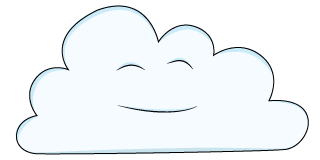
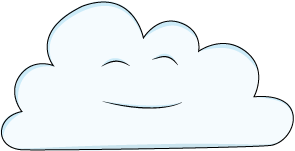
Resized pictures and implemented proper drawing and rotation of cloud arms

diff --git a/molnprojektet/molnprojektet/player.cs b/molnprojektet/molnprojektet/player.cs
@@ -17,6 +17,15 @@ namespace molnprojektet
         private Sprite rightUlnaSprite;
         private Sprite rightHandSprite;
 
+        private int rightHumerusOffsetX;
+        private int rightHumerusOffsetY;
+        private int rightUlnaOffset;
+        private int rightHandOffset;
+        private int leftHumerusOffsetX;
+        private int leftHumerusOffsetY;
+        private int leftUlnaOffset;
+        private int leftHandOffset;
+
         private List<Sprite> spriteList;
 
         private Vector2 position;
@@ -40,89 +49,167 @@ namespace molnprojektet
             }
         }
 
-        public readonly object locker;
+        public readonly object locker = new object();
 
-        public List<Sprite> getSprites()
+        public List<Sprite> GetSprites()
         {
             return spriteList;
         }
 
         public Player()
         {
-            cloudSprite.Texture = Game1.contentManager.Load<Texture2D>("Cloud.png");
-            leftHumerusSprite.Texture = Game1.contentManager.Load<Texture2D>("Humerus_left.png");
-            leftUlnaSprite.Texture = Game1.contentManager.Load<Texture2D>("Ulna_left.png");
-            leftHandSprite.Texture = Game1.contentManager.Load<Texture2D>("Hand_left.png");
-            rightHumerusSprite.Texture = Game1.contentManager.Load<Texture2D>("Humerus_right.png");
-            rightUlnaSprite.Texture = Game1.contentManager.Load<Texture2D>("Ulna_right.png");
-            rightHandSprite.Texture = Game1.contentManager.Load<Texture2D>("Hand_right.png");
+            InitSprites();
+
+            Position = new Vector2(400, 300);
+            InitArms();
+
+            SetLeftArmRotation((float)Math.PI / 2, (float)Math.PI / 2);
+            SetRightArmRotation(-(float)Math.PI / 2, -(float)Math.PI / 2);
+        }
+
+        private void InitSprites()
+        {
+            cloudSprite = new Sprite();
+            leftHumerusSprite = new Sprite();
+            leftUlnaSprite = new Sprite();
+            leftHandSprite = new Sprite();
+            rightHumerusSprite = new Sprite();
+            rightUlnaSprite = new Sprite();
+            rightHandSprite = new Sprite();
+
+            cloudSprite.Initialize();
+            leftHumerusSprite.Initialize();
+            leftUlnaSprite.Initialize();
+            leftHandSprite.Initialize();
+            rightHumerusSprite.Initialize();
+            rightUlnaSprite.Initialize();
+            rightHandSprite.Initialize();
+
+            cloudSprite.Texture = Game1.contentManager.Load<Texture2D>(@"images/Cloud");
+            leftHumerusSprite.Texture = Game1.contentManager.Load<Texture2D>(@"images/Humerus_left");
+            leftUlnaSprite.Texture = Game1.contentManager.Load<Texture2D>(@"images/Ulna_left");
+            leftHandSprite.Texture = Game1.contentManager.Load<Texture2D>(@"images/Hand_left");
+            rightHumerusSprite.Texture = Game1.contentManager.Load<Texture2D>(@"images/Humerus_right");
+            rightUlnaSprite.Texture = Game1.contentManager.Load<Texture2D>(@"images/Ulna_right");
+            rightHandSprite.Texture = Game1.contentManager.Load<Texture2D>(@"images/Hand_right");
 
             // Origin to right mid
             leftHumerusSprite.Origin = new Vector2(leftHumerusSprite.Texture.Width, leftHumerusSprite.Texture.Height / 2);
             leftUlnaSprite.Origin = new Vector2(leftUlnaSprite.Texture.Width, leftUlnaSprite.Texture.Height / 2);
-            leftHandSprite.Origin = new Vector2(leftHandSprite.Texture.Width, leftHandSprite.Texture.Height / 2);
+            leftHandSprite.Origin = new Vector2(leftHandSprite.Texture.Width, leftHandSprite.Texture.Height * 5 / 7);
 
             //Origin to left mid
             rightHumerusSprite.Origin = new Vector2(0, rightHumerusSprite.Texture.Height / 2);
             rightUlnaSprite.Origin = new Vector2(0, rightUlnaSprite.Texture.Height / 2);
-            rightHandSprite.Origin = new Vector2(0, rightHandSprite.Texture.Height / 2);
+            rightHandSprite.Origin = new Vector2(0, rightHandSprite.Texture.Height * 5 / 7);
 
             spriteList = new List<Sprite>();
             spriteList.Add(cloudSprite);
-            spriteList.Add(leftHumerusSprite);
+            spriteList.Add(rightUlnaSprite);
             spriteList.Add(leftUlnaSprite);
+            spriteList.Add(leftHumerusSprite);
             spriteList.Add(leftHandSprite);
             spriteList.Add(rightHumerusSprite);
-            spriteList.Add(rightUlnaSprite);
             spriteList.Add(rightHandSprite);
+        }
+
+        private void InitArms()
+        {
+
+            leftHumerusOffsetX = (int)(cloudSprite.Texture.Width * 0.1);
+            leftHumerusOffsetY = (int)(cloudSprite.Texture.Height * 0.6);
+            leftUlnaOffset = -(int)(leftHumerusSprite.Texture.Width * 0.95);
+            leftHandOffset = -(int)(leftUlnaSprite.Texture.Width * 0.97);
+
+            rightHumerusOffsetX = (int)(cloudSprite.Texture.Width * 0.8);
+            rightHumerusOffsetY = (int)(cloudSprite.Texture.Height * 0.6);
+            rightUlnaOffset = (int)(rightHumerusSprite.Texture.Width * 0.95);
+            rightHandOffset = (int)(rightUlnaSprite.Texture.Width * 0.97);
+
+            //Set left
+            Vector2 newHumerusPosition = new Vector2();
+            newHumerusPosition.X = position.X + leftHumerusOffsetX;
+            newHumerusPosition.Y = position.Y + leftHumerusOffsetY;
+
+            Vector2 newUlnaPosition = new Vector2();
+            newUlnaPosition.X = newHumerusPosition.X + leftUlnaOffset;
+            newUlnaPosition.Y = newHumerusPosition.Y;
+
+            Vector2 newHandPosition = new Vector2();
+            newHandPosition.X = newUlnaPosition.X + leftHandOffset;
+            newHandPosition.Y = newUlnaPosition.Y;
+
+            leftHumerusSprite.Position = newHumerusPosition;
+            leftUlnaSprite.Position = newUlnaPosition;
+            leftHandSprite.Position = newHandPosition;
+
+            //Set right
+            newHumerusPosition = new Vector2();
+            newHumerusPosition.X = position.X + rightHumerusOffsetX;
+            newHumerusPosition.Y = position.Y + rightHumerusOffsetY;
+
+            newUlnaPosition = new Vector2();
+            newUlnaPosition.X = newHumerusPosition.X + rightUlnaOffset;
+            newUlnaPosition.Y = newHumerusPosition.Y;
+
+            newHandPosition = new Vector2();
+            newHandPosition.X = newUlnaPosition.X + rightHandOffset;
+            newHandPosition.Y = newUlnaPosition.Y;
+
+            rightHumerusSprite.Position = newHumerusPosition;
+            rightUlnaSprite.Position = newUlnaPosition;
+            rightHandSprite.Position = newHandPosition;
 
         }
 
-        public void setLeftArmRotation(float humerusRotation, float ulnaRotation)
+        
+
+
+        public void SetLeftArmRotation(float humerusRotation, float ulnaRotation)
         {
             lock (locker)
             {
                 leftHumerusSprite.Rotation = humerusRotation;
 
                 Vector2 newUlnaPosition = new Vector2();
-                newUlnaPosition.X = leftHumerusSprite.Position.X - (int)(Math.Cos(humerusRotation) * leftHumerusSprite.Texture.Width);
-                newUlnaPosition.Y = leftHumerusSprite.Position.Y - (int)(Math.Sin(humerusRotation) * leftHumerusSprite.Texture.Width);
+                newUlnaPosition.X = leftHumerusSprite.Position.X + (int)(Math.Cos(humerusRotation) * leftUlnaOffset);
+                newUlnaPosition.Y = leftHumerusSprite.Position.Y + (int)(Math.Sin(humerusRotation) * leftUlnaOffset);
 
                 leftUlnaSprite.Position = newUlnaPosition;
                 leftUlnaSprite.Rotation = ulnaRotation;
 
                 Vector2 newHandPosition = new Vector2();
-                newHandPosition.X = newUlnaPosition.X - (int)(Math.Cos(ulnaRotation) * leftUlnaSprite.Texture.Width);
-                newHandPosition.X = newUlnaPosition.Y - (int)(Math.Sin(ulnaRotation) * leftUlnaSprite.Texture.Width);
+                newHandPosition.X = newUlnaPosition.X + (int)(Math.Cos(ulnaRotation) * leftHandOffset);
+                newHandPosition.Y = newUlnaPosition.Y + (int)(Math.Sin(ulnaRotation) * leftHandOffset);
 
                 leftHandSprite.Position = newHandPosition;
                 leftHandSprite.Rotation = ulnaRotation;
             }
         }
 
-        public void setRightArmRotation(float humerusRotation, float ulnaRotation)
+        public void SetRightArmRotation(float humerusRotation, float ulnaRotation)
         {
             lock (locker)
             {
                 rightHumerusSprite.Rotation = humerusRotation;
 
                 Vector2 newUlnaPosition = new Vector2();
-                newUlnaPosition.X = rightHumerusSprite.Position.X + (int)(Math.Cos(humerusRotation) * rightHumerusSprite.Texture.Width);
-                newUlnaPosition.Y = rightHumerusSprite.Position.Y - (int)(Math.Sin(humerusRotation) * rightHumerusSprite.Texture.Width);
+                newUlnaPosition.X = rightHumerusSprite.Position.X + (int)(Math.Cos(humerusRotation) * rightUlnaOffset);
+                newUlnaPosition.Y = rightHumerusSprite.Position.Y + (int)(Math.Sin(humerusRotation) * rightUlnaOffset);
 
                 rightUlnaSprite.Position = newUlnaPosition;
                 rightUlnaSprite.Rotation = ulnaRotation;
 
                 Vector2 newHandPosition = new Vector2();
-                newHandPosition.X = newUlnaPosition.X + (int)(Math.Cos(ulnaRotation) * rightUlnaSprite.Texture.Width);
-                newHandPosition.X = newUlnaPosition.Y - (int)(Math.Sin(ulnaRotation) * rightUlnaSprite.Texture.Width);
+                newHandPosition.X = newUlnaPosition.X + (int)(Math.Cos(ulnaRotation) * rightHandOffset);
+                newHandPosition.Y = newUlnaPosition.Y + (int)(Math.Sin(ulnaRotation) * rightHandOffset);
 
                 rightHandSprite.Position = newHandPosition;
                 rightHandSprite.Rotation = ulnaRotation;
             }
         }
 
-        public void draw(GraphicsHandler g)
+        public void Draw(GraphicsHandler g)
         {
             lock(locker)
                 g.DrawSprites(spriteList);

diff --git a/molnprojektet/molnprojektet/KinectHandler.cs b/molnprojektet/molnprojektet/KinectHandler.cs
@@ -48,6 +48,7 @@ namespace molnprojektet
         {
             while (running)
             {
+                System.Threading.Thread.Sleep(10);
                 if (sensor != null)
                     ProcessSkeletonFrame();
             }
@@ -113,8 +114,8 @@ namespace molnprojektet
             float rightHumerusAngle = calculateArmAngle(JointType.ShoulderRight, JointType.ElbowRight, Arm.Right);
             float rightUlnaAngle = calculateArmAngle(JointType.ElbowRight, JointType.WristRight, Arm.Right);
 
-            game.PlayerCloud.setLeftArmRotation(leftHumerusAngle, leftUlnaAngle);
-            game.PlayerCloud.setRightArmRotation(rightHumerusAngle, rightUlnaAngle);
+            game.PlayerCloud.SetLeftArmRotation(leftHumerusAngle, leftUlnaAngle);
+            game.PlayerCloud.SetRightArmRotation(rightHumerusAngle, rightUlnaAngle);
         }
         
         private enum Arm {Left, Right};

diff --git a/molnprojektet/molnprojektet/GameWindow.cs b/molnprojektet/molnprojektet/GameWindow.cs
@@ -37,6 +37,8 @@ namespace molnprojektet
             cloud.Position = new Vector2(0, 0);
             cloud.Size = new Vector2(320, 160);
             cloud.Texture = Game1.contentManager.Load<Texture2D>(@"Images\Cloud");
+
+            playerCloud = new Player();
             
             background = new Sprite();
             background.Initialize();
@@ -76,6 +78,7 @@ namespace molnprojektet
         {
             graphicsHandler.DrawSprites(backgroundSprites);
             graphicsHandler.DrawSprites(spriteList);
+            playerCloud.Draw(graphicsHandler);
         }
     }
 }

diff --git a/molnprojektet/molnprojektet/Game1.cs b/molnprojektet/molnprojektet/Game1.cs
@@ -62,6 +62,7 @@ namespace molnprojektet
 
             kinectHandler = new KinectHandler(gameWindow);
             kinectThread = new Thread(() => kinectHandler.run());
+            kinectThread.IsBackground = true;
             kinectThread.Start();
         }
 
@@ -87,6 +88,8 @@ namespace molnprojektet
             // TODO: Add your update logic here
             windowHandler.UpdateWindow();
             base.Update(gameTime);
+
+            Thread.Sleep(10);
         }
 
         /// <summary>
